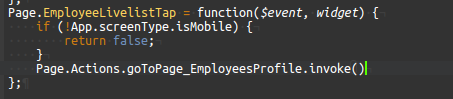
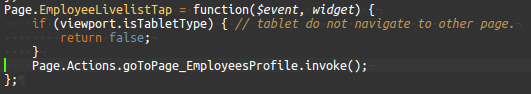
updating the doc with viewport api details

diff --git a/learn/how-tos/support-for-tablet-view-in-mobile.md b/learn/how-tos/support-for-tablet-view-in-mobile.md
@@ -11,15 +11,33 @@ Developing tablet views is now supported in Mobile projects. From 10.6, tab scre
 
 [![](/learn/assets/showindeviceOptions.png)](/learn/assets/showindeviceOptions.png)
 
-We also have a property called **screenType** on App which tells the user whether app is rendered on a mobile or tablet.
-This property can be accessed as 
-1. **App.screenType.isMobile**:
-If set to true then app is rendered on mobile device
-2. **App.screenType.isTabletProtrait**:
-If set to true then app is rendered on tablet device with protrait orientation
-3. **App.screenType.isTabletLandscape**:
-If set to true then app is rendered on tablet device with landscape orientation
+**Viewport API**
 
+This API provides the viewport details of the device in which the app is rendered.
+
+Properties:
+
+1. **isMobileType**
+If set to true then app is rendered on a mobile device
+2. **isTabletType**:
+If set to true then app is rendered on a tablet device
+3. **orientation**:
+this is an object containing isPortrait and isLandscape values.
+isPortrait is set to true when screen orientation is portrait. Similarly, isLandscape is set to true when screen orientation is landscape. 
+
+## Viewport API usage
+
+```js   
+// Accessing properties on Viewport 
+var viewport = App.getDependency('Viewport');
+
+console.log(viewport.isMobileType);
+console.log(viewport.isTabletType);
+console.log(viewport.orientation.isPortrait);
+console.log(viewport.orientation.isLandscape);
+
+};
+```
 
 With the help of above properties, Let us develop an app with list of employees and their detail profile.
 The view is different for tablet and mobile as shown below.
@@ -43,11 +61,24 @@ The view is different for tablet and mobile as shown below.
 [![](/learn/assets/showindevice_container.png)](/learn/assets/showindevice_container.png)
 
 8. Now, change the screen size to mobile device
+6. Bind this partial to the above container that is within the second column.
+[![](/learn/assets/col1col2.png)](/learn/assets/col1col2.png)
+
+7. But this second column has to be displayed only in tablet view. Hence configure this by setting showindevice property to Tablet Protrait and Tablet Landscape.
+[![](/learn/assets/showindevice_container.png)](/learn/assets/showindevice_container.png)
+
+8. Now, change the screen size to mobile device
 
 [![](/learn/assets/twoviews-mobile.png)](/learn/assets/twoviews-mobile.png)
 
 9. Second column will not be displayed in mobile preview as mentioned in step 7.
-10. Hence, in mobile, first column width has to be set to 12 using **App.screenType.isMobile**.
+10. Hence, in mobile, first column width has to be set to 12 to occupy the device width.
+[![](/learn/assets/isMobileFlag.png)](/learn/assets/isMobileFlag.png)
+
+[![](/learn/assets/twoviews-mobile.png)](/learn/assets/twoviews-mobile.png)
+
+9. Second column will not be displayed in mobile preview as mentioned in step 7.
+10. Hence, in mobile, first column width has to be set to 12 to occupy the device width.
 [![](/learn/assets/isMobileFlag.png)](/learn/assets/isMobileFlag.png)
 
 11. On list item click, navigate to new page containing the partial.
